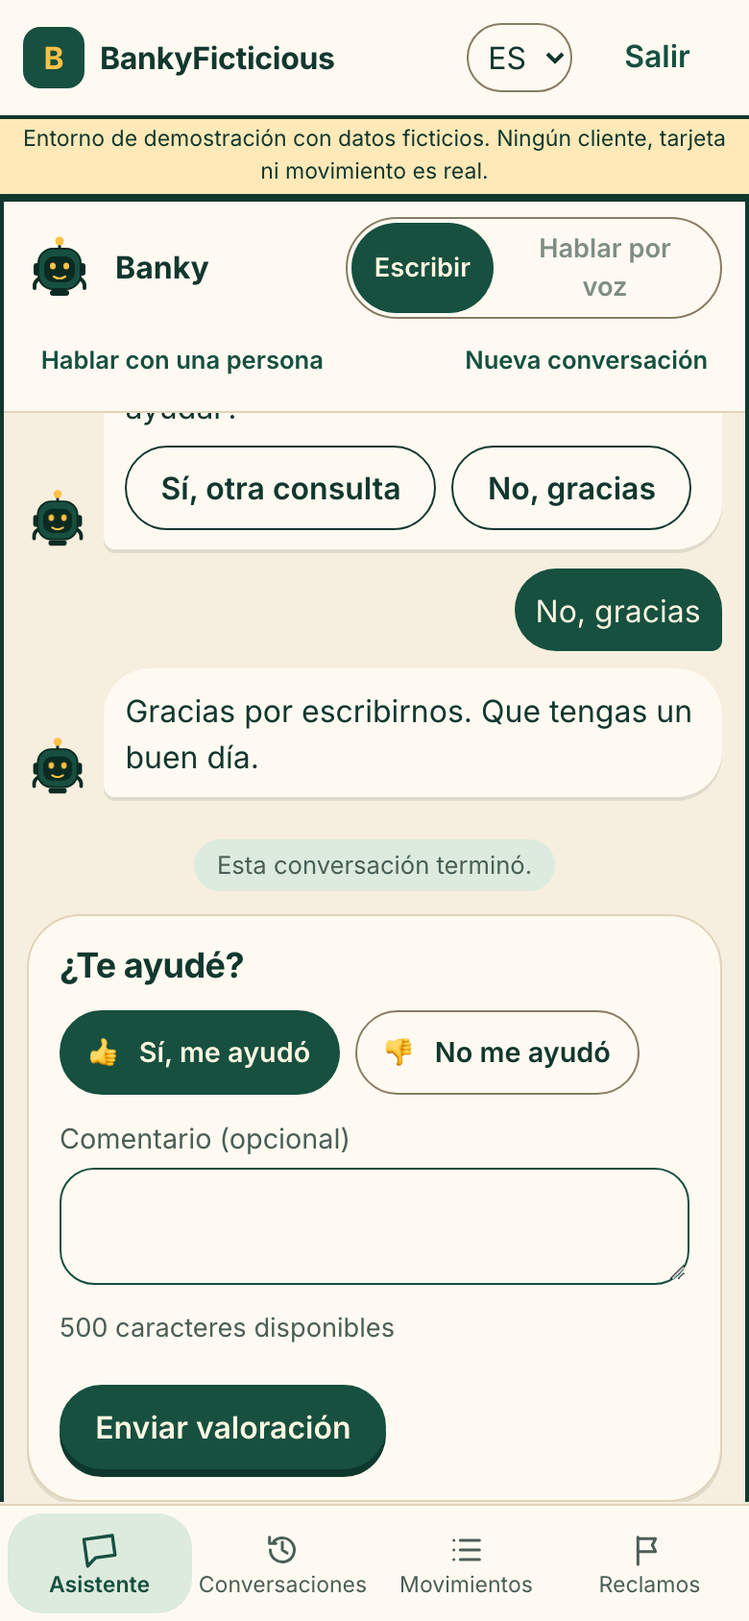
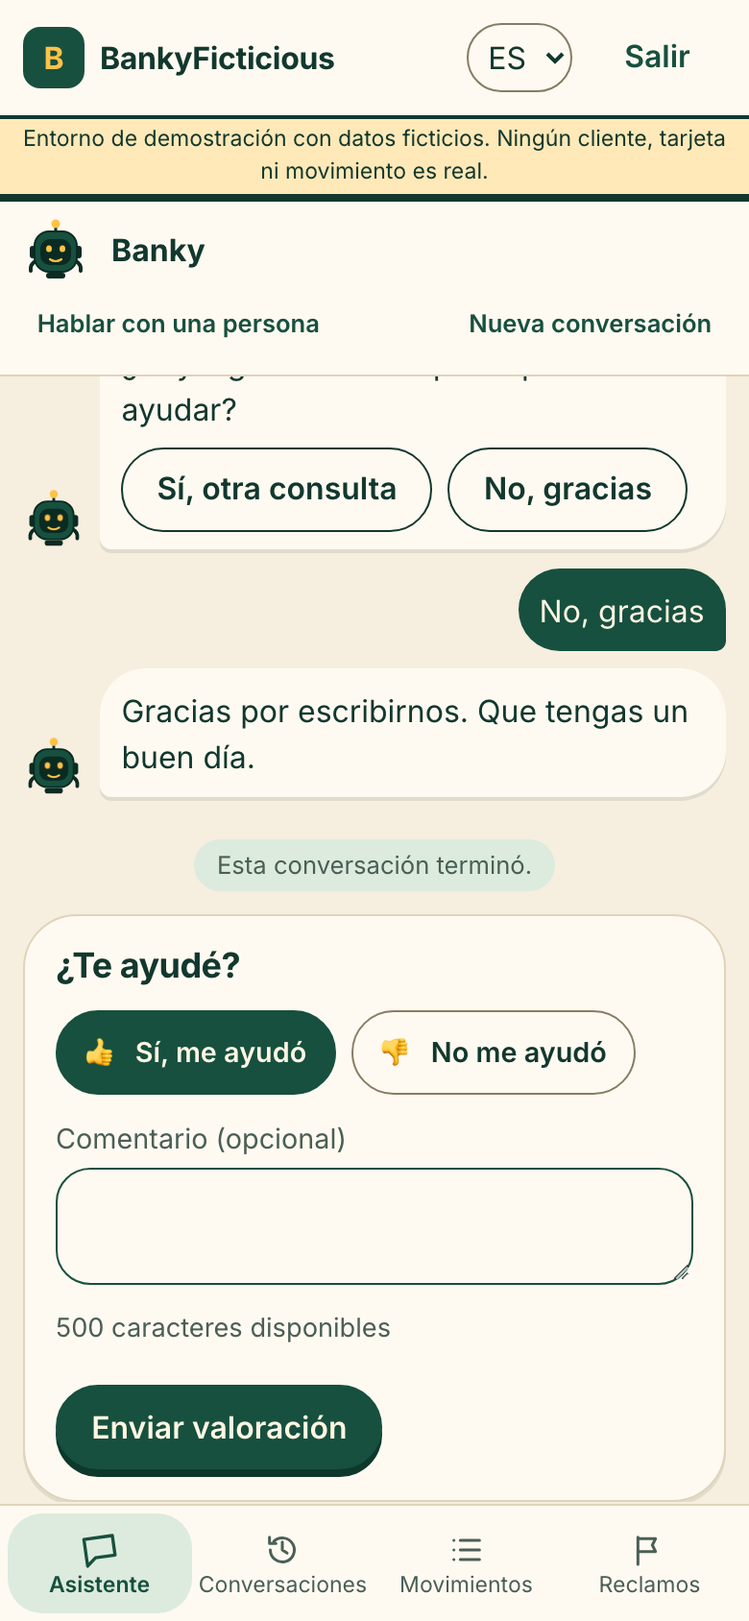
fix(frontend): single welcome, no voice option when disabled, clear option lists and no attempt counters
Review of the chat on prodlike (prompt 11), frontend session. Top priority.

- **B5:** with `VOICE_ENABLED=false` there is no voice button and no notice: neither in the welcome nor in the chat header. The text/voice question appears only when `GET /api/voice/config` says `enabled`.
- **B6:** one welcome message instead of two: Banky introduces itself and, in the same bubble, says what it can do (the backend greeting, without repeating "Hola").
- **B4 (frontend side):** the clarification no longer shows any attempt counter.
- **"Asks for a detail" and "no matches":** quick replies are now a clear list of options, one per row with an icon per action (search, movements, claim status, card, person), pressed once. A plain yes/no pair stays inline. Notices get an icon and a clearer card.
- `start_topic` was already added in #98.
- The contract does not yet distinguish those two states from any other text + options reply; proposed codes in https://github.com/HenryGlo/factored-hackathon-2026-gomez-team/issues/102 (not blocking).
- The three visual directions were delivered in #94 and direction C was applied to every screen in #100.
- Tests: 75 component tests (4 new); e2e 10 passed (the customer journey now asserts a single welcome and no voice button).

Closes #103

diff --git a/frontend/src/pages/ChatPage.tsx b/frontend/src/pages/ChatPage.tsx
@@ -32,6 +32,18 @@ function fromDetail(d: ConversationDetail): Message[] {
     : { id: t.turn_id, role: "assistant", blocks: t.blocks, state: d.state }));
 }
 
+/** El saludo del backend empieza con "Hola, …"; Banky ya saludó en la primera línea, así que esa palabra se quita (solo
+ *  presentación: el resto del texto queda igual). */
+function withoutGreetingWord(blocks: Block[]): Block[] {
+  let done = false;
+  return blocks.map((b) => {
+    if (done || b.type !== "text") return b;
+    done = true;
+    const rest = b.text.replace(/^\s*¡?(hola|olá|oi)\b[!,.\s]*/i, "");
+    return rest && rest !== b.text ? { ...b, text: rest.replace(/^([¿¡"«\s]*)(\p{L})/u, (_, pre: string, ch: string) => pre + ch.toUpperCase()) } : b;
+  });
+}
+
 /** Expresión de Banky según lo que trae el turno: feliz con un resultado verificado, empático ante un traspaso o un aviso. */
 function bankyFor(blocks: Block[] | undefined): BankyState {
   for (const b of blocks ?? []) {
@@ -255,31 +267,32 @@ export default function ChatPage() {
           </div>
         </div>
         <div className="chat-tools">
+          {voiceEnabled && (
           <div className="segmented" role="group" aria-label={t.chat.modeLabel}>
             <button type="button" aria-pressed={!voiceOn} onClick={() => { stopSpeech(); chooseMode("text"); }}>{t.chat.modeText}</button>
-            <button type="button" aria-pressed={voiceOn} disabled={!voiceEnabled}
-              title={voiceEnabled ? undefined : t.chat.voiceOff[voice.reason ?? "voice_disabled"]} onClick={() => { setVoiceNote(null); chooseMode("voice"); }}>{t.chat.modeVoice}</button>
+            <button type="button" aria-pressed={voiceOn} onClick={() => { setVoiceNote(null); chooseMode("voice"); }}>{t.chat.modeVoice}</button>
           </div>
+          )}
           <button className="btn ghost small" disabled={sending} onClick={() => void send({ action: { type: "request_human" } }, t.humanHelp)}>{t.humanHelp}</button>
           <button className="btn ghost small" disabled={sending} onClick={() => void startConversation({ previous: conversationId ?? undefined }).catch(handleError)}>{t.newConversation}</button>
         </div>
       </div>
 
       <div className="messages" role="log" aria-live="polite" aria-relevant="additions" aria-busy={sending}>
-        {messages.length > 0 && !voice.loading && (
-          <ModeChoice lang={lang} mode={mode} voiceEnabled={voiceEnabled} voiceReason={voice.reason} onChoose={chooseMode} />
-        )}
         {messages.map((m) => (
           <div key={m.id} className={`msg ${m.role}`}>
             {m.role === "assistant" && <Banky state={bankyFor(m.blocks)} size={44} />}
             {m.role === "assistant" ? (
-              <div className="bubble assistant">
+              <div className={m.id.startsWith("greet-") ? "bubble assistant welcome" : "bubble assistant"}>
                 <span className="sr-only">{t.assistant}:</span>
-                {(m.blocks ?? []).map((b, i) => (
+                {/* bienvenida en UN solo mensaje: la presentación de Banky y, debajo, lo que puede hacer (texto del backend) */}
+                {m.id.startsWith("greet-") && <p className="bubble-text welcome-hello"><strong>{t.chat.hello}</strong></p>}
+                {(m.id.startsWith("greet-") ? withoutGreetingWord(m.blocks ?? []) : m.blocks ?? []).map((b, i) => (
                   <BlockView key={i} block={b} lang={lang} state={m.id === lastAssistant ? state : (m.state ?? state)}
                     active={m.id === lastAssistant && !sending && !closed && cooldown === 0}
                     onAction={(action, label) => void send({ action }, label)} />
                 ))}
+                {m.id.startsWith("greet-") && !voice.loading && <ModeChoice lang={lang} mode={mode} voiceEnabled={voiceEnabled} onChoose={chooseMode} />}
               </div>
             ) : m.role === "system" ? (
               <p className="system-note">{m.text}</p>

diff --git a/frontend/src/components/blocks/BlockView.tsx b/frontend/src/components/blocks/BlockView.tsx
@@ -6,6 +6,7 @@ import type { Action, Block, CandidateListBlock, ConversationState, Lang, Result
 import { formatDate } from "../../lib/format";
 import { T } from "../../lib/i18n";
 import CopyRef from "../CopyRef";
+import Icon, { type IconName } from "../Icon";
 
 export interface BlockProps {
   block: Block;
@@ -59,7 +60,6 @@ function CandidateList({ block, active, onAction, lang }: { block: CandidateList
         {block.allow_none && (
           <div className="actions"><button className="btn ghost" disabled={!active || used} onClick={() => send({ type: "reject" }, t.none)}>{t.none}</button></div>
         )}
-        {block.round > 1 && <p className="muted small">{t.chat.attempt(block.round, block.max_rounds)}</p>}
       </div>
     );
   }
@@ -91,6 +91,29 @@ function CandidateList({ block, active, onAction, lang }: { block: CandidateList
         {block.allow_none && <button className="btn ghost" onClick={() => send({ type: "reject" }, t.none)}>{t.none}</button>}
       </div>
     </fieldset>
+  );
+}
+
+const TOPIC_ICON: Record<string, IconName> = { cargo_no_reconocido: "search", consulta_movimientos: "list", estado_reclamo: "flag", bloquear_tarjeta: "card" };
+
+function optionIcon(a: Action): IconName {
+  if (a.type === "start_topic") return TOPIC_ICON[a.topic ?? ""] ?? "chat";
+  return a.type === "request_human" ? "person" : a.type === "end_conversation" ? "check" : "chat";
+}
+
+/** Opciones que ofrece el asistente cuando pide un dato, no encuentra coincidencias o propone temas: una por fila. */
+function QuickOptions({ options, active, onAction }: { options: { label: string; action: Action }[]; active: boolean; onAction: BlockProps["onAction"] }) {
+  const [used, setUsed] = useState(false);
+  return (
+    <ul className="options" role="group">
+      {options.map((o) => (
+        <li key={o.label}>
+          <button type="button" className="option" disabled={!active || used} onClick={() => { setUsed(true); onAction(o.action, o.label); }}>
+            <Icon name={optionIcon(o.action)} /><span>{o.label}</span><span className="option-go" aria-hidden="true">›</span>
+          </button>
+        </li>
+      ))}
+    </ul>
   );
 }
 
@@ -128,7 +151,11 @@ export default function BlockView({ block, lang, state, active, onAction }: Bloc
         ? <p><a className="btn secondary" href={block.url} target="_blank" rel="noopener noreferrer">{block.label}</a></p>
         : null;
     case "notice":
-      return <p className={`notice ${block.level === "warning" ? "warning" : "info"}`}>{block.text}</p>;
+      return (
+        <p className={`notice ${block.level === "warning" ? "warning" : "info"}`} data-code={block.code}>
+          <span className="notice-icon" aria-hidden="true">{block.level === "warning" ? "!" : "i"}</span><span>{block.text}</span>
+        </p>
+      );
     case "error":
       return <p className="notice error" role="alert">{block.message}</p>;
     case "candidate_list":
@@ -217,11 +244,14 @@ export default function BlockView({ block, lang, state, active, onAction }: Bloc
         </div>
       );
     case "quick_replies":
-      return (
-        <div className="quick" role="group">
-          {block.options.map((o) => <OnceButton key={o.label} label={o.label} active={active} onAction={onAction} action={o.action} />)}
-        </div>
-      );
+      // dos opciones (sí / no) van en línea; con más, o con temas, una lista clara de opciones con su icono
+      return block.options.length <= 2 && block.options.every((o) => o.action.type !== "start_topic")
+        ? (
+          <div className="quick" role="group">
+            {block.options.map((o) => <OnceButton key={o.label} label={o.label} active={active} onAction={onAction} action={o.action} />)}
+          </div>
+        )
+        : <QuickOptions options={block.options} active={active} onAction={onAction} />;
     default:
       return null;
   }

diff --git a/frontend/src/components/__tests__/BlockView.test.tsx b/frontend/src/components/__tests__/BlockView.test.tsx
@@ -84,16 +84,44 @@ describe("BlockView", () => {
     const onAction = vi.fn();
     render(<BlockView block={block} lang="es" state="inicio" active onAction={onAction} />);
     expect(screen.getAllByRole("button")).toHaveLength(5);
-    fireEvent.click(screen.getByRole("button", { name: "Bloquear mi tarjeta" }));
+    fireEvent.click(screen.getByRole("button", { name: /Bloquear mi tarjeta/ }));
     expect(onAction).toHaveBeenCalledWith({ type: "start_topic", topic: "bloquear_tarjeta" }, "Bloquear mi tarjeta");
-    expect((screen.getByRole("button", { name: "Bloquear mi tarjeta" }) as HTMLButtonElement).disabled).toBe(true);   // un solo envío
+    expect((screen.getByRole("button", { name: /Bloquear mi tarjeta/ }) as HTMLButtonElement).disabled).toBe(true);   // un solo envío
   });
 
   it("quick_replies from an earlier turn cannot be used", () => {
     const block: QuickRepliesBlock = { type: "quick_replies", options: [{ label: "Ver mis movimientos", action: { type: "start_topic", topic: "consulta_movimientos" } }] };
     const onAction = vi.fn();
     render(<BlockView block={block} lang="es" state="inicio" active={false} onAction={onAction} />);
-    fireEvent.click(screen.getByRole("button", { name: "Ver mis movimientos" }));
+    fireEvent.click(screen.getByRole("button", { name: /Ver mis movimientos/ }));
     expect(onAction).not.toHaveBeenCalled();
+  });
+
+  it("never shows the internal attempt counter of a clarification", () => {
+    const block: CandidateListBlock = { type: "candidate_list", prompt: "Elige", allow_none: true, round: 3, max_rounds: 3, candidates: [tx("a", "Uno"), tx("b", "Dos")] };
+    const { container } = render(<BlockView block={block} lang="es" state="aclarando" active onAction={vi.fn()} />);
+    expect(container.textContent).not.toMatch(/3\s*(de|\/)\s*3|Intento/i);
+  });
+
+  it("asking for a detail or finding nothing: the options are one clear list and each sends its action once", () => {
+    const block: QuickRepliesBlock = { type: "quick_replies", options: [
+      { label: "Darte otro dato", action: { type: "new_request" } },
+      { label: "Ver mis últimos movimientos", action: { type: "start_topic", topic: "consulta_movimientos" } },
+      { label: "Hablar con una persona", action: { type: "request_human" } },
+    ] };
+    const onAction = vi.fn();
+    const { container } = render(<BlockView block={block} lang="es" state="inicio" active onAction={onAction} />);
+    expect(container.querySelectorAll(".options .option")).toHaveLength(3);
+    fireEvent.click(screen.getByRole("button", { name: /Ver mis últimos movimientos/ }));
+    fireEvent.click(screen.getByRole("button", { name: /Hablar con una persona/ }));
+    expect(onAction).toHaveBeenCalledTimes(1);
+    expect(onAction).toHaveBeenCalledWith({ type: "start_topic", topic: "consulta_movimientos" }, "Ver mis últimos movimientos");
+  });
+
+  it("keeps a plain yes/no pair inline", () => {
+    const block: QuickRepliesBlock = { type: "quick_replies", options: [{ label: "Sí, otra consulta", action: { type: "new_request" } }, { label: "No, gracias", action: { type: "end_conversation" } }] };
+    const { container } = render(<BlockView block={block} lang="es" state="inicio" active onAction={vi.fn()} />);
+    expect(container.querySelector(".options")).toBeNull();
+    expect(container.querySelectorAll(".quick .btn")).toHaveLength(2);
   });
 });

diff --git a/frontend/src/components/ModeChoice.tsx b/frontend/src/components/ModeChoice.tsx
@@ -1,10 +1,9 @@
-// Presentación de Banky y elección del modo (texto o voz). La voz solo se ofrece si GET /api/voice/config dice enabled;
-// si no, el botón queda deshabilitado y se explica el motivo. La elección se guarda en la sesión del navegador.
+// Elección del modo (texto o voz). La voz solo se ofrece si GET /api/voice/config dice enabled; con la voz apagada
+// no aparece ningún botón ni aviso. La elección se guarda en la sesión del navegador.
 import { useEffect, useState } from "react";
 import { api } from "../api/client";
 import type { Lang, VoiceConfig } from "../api/types";
 import { T } from "../lib/i18n";
-import Banky from "./Banky";
 
 export type ChatMode = "text" | "voice";
 const MODE_KEY = "chat_mode";
@@ -39,24 +38,20 @@ export function useVoiceConfig(): { config: VoiceConfig | null; reason: string |
   return state;
 }
 
-export default function ModeChoice({ lang, mode, voiceEnabled, voiceReason, onChoose }: {
-  lang: Lang; mode: ChatMode | null; voiceEnabled: boolean; voiceReason: string | null; onChoose: (m: ChatMode) => void;
+/** Pregunta texto/voz dentro del mensaje de bienvenida. Con la voz apagada no se muestra nada: ni botón ni aviso. */
+export default function ModeChoice({ lang, mode, voiceEnabled, onChoose }: {
+  lang: Lang; mode: ChatMode | null; voiceEnabled: boolean; onChoose: (m: ChatMode) => void;
 }) {
   const c = T[lang].chat;
+  if (!voiceEnabled) return null;
   return (
-    <div className="msg assistant">
-      <Banky state="greeting" size={44} label={c.bankyLabel} />
-      <div className="bubble assistant intro">
-        <p className="bubble-text"><strong>{c.hello}</strong></p>
-        <p className="bubble-text" id="mode-question">{c.modeQuestion}</p>
-        <div className="quick" role="group" aria-labelledby="mode-question">
-          <button type="button" className="chip" aria-pressed={mode === "text"} onClick={() => onChoose("text")}><span aria-hidden="true">⌨</span> {c.modeText}</button>
-          <button type="button" className="chip" aria-pressed={mode === "voice"} disabled={!voiceEnabled} aria-describedby={voiceEnabled ? undefined : "voice-off"}
-            onClick={() => onChoose("voice")}><span aria-hidden="true">🎙</span> {c.modeVoice}</button>
-        </div>
-        {!voiceEnabled && voiceReason && <p id="voice-off" className="muted small">{c.voiceOff[voiceReason] ?? c.voiceOff.voice_disabled}</p>}
-        {mode && <p className="muted small" role="status">{mode === "voice" && voiceEnabled ? c.modeChosenVoice : c.modeChosenText}</p>}
+    <div className="mode-choice">
+      <p className="bubble-text" id="mode-question">{c.modeQuestion}</p>
+      <div className="quick" role="group" aria-labelledby="mode-question">
+        <button type="button" className="chip" aria-pressed={mode === "text"} onClick={() => onChoose("text")}><span aria-hidden="true">⌨</span> {c.modeText}</button>
+        <button type="button" className="chip" aria-pressed={mode === "voice"} onClick={() => onChoose("voice")}><span aria-hidden="true">🎙</span> {c.modeVoice}</button>
       </div>
+      {mode && <p className="muted small" role="status">{mode === "voice" ? c.modeChosenVoice : c.modeChosenText}</p>}
     </div>
   );
 }

diff --git a/frontend/src/styles.css b/frontend/src/styles.css
@@ -759,3 +759,25 @@ body { font-family: var(--font-body); }
 .ticket-row.pr-alta { border-left-color: var(--err-line); }
 .segmented button { white-space: nowrap; }
 @media (max-width: 720px) { .segmented button { padding-inline: 0.6rem; font-size: 0.8rem; } .chat { border-inline: 0; } }
+
+/* ---- revisión del chat (prompt 11): bienvenida única, opciones claras, avisos con icono */
+.welcome-hello { font-family: var(--font-display); font-size: var(--text-lg); }
+.mode-choice { display: grid; gap: var(--s-2); margin-top: var(--s-1); padding-top: var(--s-3); border-top: 1.5px dashed var(--line); }
+.options { list-style: none; margin: var(--s-1) 0 0; padding: 0; display: grid; gap: var(--s-2); min-width: min(100%, 20rem); }
+.option { width: 100%; font: inherit; font-weight: 600; text-align: left; display: flex; align-items: center; gap: var(--s-3); min-height: 48px; padding: 0.55rem 0.9rem;
+  color: var(--text); background: var(--surface); border: 1.5px solid var(--text); border-radius: var(--r-md); box-shadow: 0 3px 0 var(--text); cursor: pointer;
+  transition: transform var(--dur-base) var(--ease-spring), box-shadow var(--dur-base) var(--ease-out), background-color var(--dur-fast) var(--ease-out); }
+.option .icon { color: var(--accent); }
+.option > span:nth-child(2) { flex: 1; }
+.option-go { font-size: 1.3rem; line-height: 1; color: var(--muted); transition: transform var(--dur-base) var(--ease-spring); }
+.option:not(:disabled):hover { background: var(--accent-soft); transform: translateY(1px); box-shadow: 0 2px 0 var(--text); }
+.option:not(:disabled):hover .option-go { transform: translateX(4px); }
+.option:not(:disabled):active { transform: translateY(3px); box-shadow: 0 0 0 var(--text); }
+.option:disabled { cursor: not-allowed; color: var(--muted); border-color: var(--line); box-shadow: none; background: var(--surface-2); }
+.option:disabled .icon { color: var(--muted); }
+.transcript .options { display: none; }
+.notice { align-items: flex-start; flex-wrap: nowrap; border-radius: var(--r-md); padding: 0.65rem 0.85rem; }
+.notice.info { background: var(--info-bg); border: 1.5px solid #b9cfe2; }
+.notice-icon { flex: none; width: 1.4rem; height: 1.4rem; border-radius: 50%; display: grid; place-items: center; font-weight: 800; font-size: 0.8rem; font-family: var(--font-display); }
+.notice.info .notice-icon { background: var(--info); color: #fff; }
+.notice.warning .notice-icon { background: var(--warn); color: #fff; }

diff --git a/frontend/src/lib/i18n.ts b/frontend/src/lib/i18n.ts
@@ -117,9 +117,7 @@ const es = {
     modeLabel: "Modo de conversación",
     modeChosenText: "Seguimos por escrito. Puedes cambiar a voz cuando quieras.",
     modeChosenVoice: "Seguimos por voz. Las confirmaciones siempre se hacen con un botón en pantalla.",
-    voiceOff: { voice_disabled: "La voz no está disponible por ahora: está desactivada en este entorno. Seguimos por escrito.", voice_not_configured: "La voz no está disponible por ahora: falta configurarla. Seguimos por escrito.", error: "No pudimos comprobar si la voz está disponible. Seguimos por escrito." } as Record<string, string>,
     phases: { understanding: "Entendiendo tu mensaje…", searching_transactions: "Buscando en tus movimientos…", checking_policy: "Revisando la política…", writing: "Escribiendo…" } as Record<string, string>,
-    attempt: (n: number, max: number) => `Intento ${n} de ${max} para encontrar el movimiento`,
     copy: "Copiar",
     copied: "Copiado",
     copyRef: (ref: string) => `Copiar la referencia ${ref}`,
@@ -399,9 +397,7 @@ const pt: Dict = {
     modeLabel: "Modo de conversa",
     modeChosenText: "Seguimos por escrito. Você pode mudar para voz quando quiser.",
     modeChosenVoice: "Seguimos por voz. As confirmações são sempre feitas com um botão na tela.",
-    voiceOff: { voice_disabled: "A voz não está disponível por enquanto: está desativada neste ambiente. Seguimos por escrito.", voice_not_configured: "A voz não está disponível por enquanto: falta configurá-la. Seguimos por escrito.", error: "Não foi possível verificar se a voz está disponível. Seguimos por escrito." },
     phases: { understanding: "Entendendo a sua mensagem…", searching_transactions: "Procurando nos seus lançamentos…", checking_policy: "Verificando a política…", writing: "Digitando…" },
-    attempt: (n: number, max: number) => `Tentativa ${n} de ${max} para encontrar o lançamento`,
     copy: "Copiar",
     copied: "Copiado",
     copyRef: (ref: string) => `Copiar a referência ${ref}`,

diff --git a/frontend/src/components/__tests__/FeedbackCard.test.tsx b/frontend/src/components/__tests__/FeedbackCard.test.tsx
@@ -31,21 +31,18 @@ describe("FeedbackCard", () => {
 });
 
 describe("ModeChoice", () => {
-  it("introduces Banky and explains why voice is unavailable when the flag is off", () => {
-    const onChoose = vi.fn();
-    render(<ModeChoice lang="es" mode={null} voiceEnabled={false} voiceReason="voice_disabled" onChoose={onChoose} />);
-    expect(screen.getByText("¡Hola! Soy Banky, tu asistente.")).toBeTruthy();
-    const voice = screen.getByRole("button", { name: /Hablar por voz/ }) as HTMLButtonElement;
-    expect(voice.disabled).toBe(true);
-    expect(screen.getByText(/La voz no está disponible por ahora/)).toBeTruthy();
-    fireEvent.click(screen.getByRole("button", { name: /Escribir/ }));
-    expect(onChoose).toHaveBeenCalledWith("text");
+  it("shows nothing when voice is off: no voice button and no notice", () => {
+    const { container } = render(<ModeChoice lang="es" mode={null} voiceEnabled={false} onChoose={vi.fn()} />);
+    expect(container.textContent).toBe("");
+    expect(screen.queryByRole("button")).toBeNull();
   });
 
-  it("offers voice when it is enabled", () => {
+  it("asks text or voice when voice is enabled", () => {
     const onChoose = vi.fn();
-    render(<ModeChoice lang="pt" mode={null} voiceEnabled voiceReason={null} onChoose={onChoose} />);
+    render(<ModeChoice lang="pt" mode={null} voiceEnabled onChoose={onChoose} />);
     fireEvent.click(screen.getByRole("button", { name: /Falar por voz/ }));
     expect(onChoose).toHaveBeenCalledWith("voice");
+    fireEvent.click(screen.getByRole("button", { name: /Escrever/ }));
+    expect(onChoose).toHaveBeenCalledWith("text");
   });
 });

diff --git a/frontend/e2e/journeys.e2e.ts b/frontend/e2e/journeys.e2e.ts
@@ -17,11 +17,10 @@ test("cliente con un cargo claro: de la landing al reclamo verificado, con histo
   await page.getByRole("button", { name: "Entrar" }).click();
   await expect(page).toHaveURL(/\/chat/);
 
-  // Banky se presenta y ofrece texto o voz; con la voz apagada explica por qué
-  await expect(page.getByText("¡Hola! Soy Banky, tu asistente.")).toBeVisible();
-  await expect(page.locator(".chip", { hasText: "Hablar por voz" })).toBeDisabled();
-  await expect(page.getByText(/La voz no está disponible por ahora/)).toBeVisible();
-  await page.locator(".chip", { hasText: "Escribir" }).click();
+  // una sola bienvenida (Banky se presenta y dice qué puede hacer); con la voz apagada no hay botón de voz ni aviso
+  await expect(page.locator(".messages > .msg.assistant")).toHaveCount(1);
+  await expect(page.locator(".bubble.welcome")).toContainText("¡Hola! Soy Banky, tu asistente.");
+  await expect(page.getByText(/Hablar por voz/)).toHaveCount(0);
 
   await say(page, "No reconozco un cobro");
   const first = page.locator(".choice").first();

diff --git a/frontend/src/components/Icon.tsx b/frontend/src/components/Icon.tsx
@@ -5,6 +5,10 @@ const PATHS: Record<string, string> = {
   list: "M8 6h12M8 12h12M8 18h12M4 6h.01M4 12h.01M4 18h.01",
   flag: "M5 21V4m0 1h11l-2 4 2 4H5",
   ticket: "M4 8a2 2 0 0 1 2-2h12a2 2 0 0 1 2 2v2a2 2 0 0 0 0 4v2a2 2 0 0 1-2 2H6a2 2 0 0 1-2-2v-2a2 2 0 0 0 0-4zM14 6v12",
+  search: "M11 18a7 7 0 1 0 0-14 7 7 0 0 0 0 14zM20 20l-4-4",
+  person: "M12 12a4 4 0 1 0 0-8 4 4 0 0 0 0 8zM4.5 20a7.5 7.5 0 0 1 15 0",
+  card: "M3 7a2 2 0 0 1 2-2h14a2 2 0 0 1 2 2v10a2 2 0 0 1-2 2H5a2 2 0 0 1-2-2zM3 10h18M7 15h4",
+  check: "M5 12.5l4.5 4.5L19 7.5",
   gauge: "M4 18a8 8 0 1 1 16 0M12 18l4-6",
 };
 

diff --git a/frontend/e2e/a11y.e2e.ts b/frontend/e2e/a11y.e2e.ts
@@ -19,7 +19,7 @@ test("pantallas públicas sin violaciones serias", async ({ page }) => {
 
 test("pantallas del cliente sin violaciones serias", async ({ page }) => {
   await login(page, "demo_cargos_parecidos_2");
-  await expect(page.locator(".messages > .msg.assistant").nth(1)).toBeVisible();
+  await expect(page.locator(".messages > .msg.assistant").first()).toBeVisible();
   await audit(page, "chat");
   for (const path of ["/conversaciones", "/movimientos", "/reclamos"]) {
     await page.goto(path);

diff --git a/frontend/README.md b/frontend/README.md
@@ -58,7 +58,7 @@ DEMO_PASSWORD=… BASE_URL=http://127.0.0.1:5173 npm run e2e
 |---|---|---|
 | `/` | — | Landing de BankyFicticious: "Tengo un reclamo" (abre el chat; sin sesión pasa por el login), acceso de agentes (`/login?perfil=agente`), cómo funciona, qué puede y qué no puede hacer Banky, aviso de datos ficticios. Lighthouse (build de producción, 2026-10-02): landing y chat con rendimiento 98–100 y accesibilidad 100 en celular y escritorio. |
 | `/login` | — | Login en dos paneles. Con `DEMO_MODE` (`GET /api/demo/info`): aviso de entorno de demostración y tarjetas de usuarios demo con su escenario (clientes en `/login`, agentes y admin en `/login?perfil=agente`). La contraseña nunca está en el frontend: el aviso dice dónde está documentada. Con el modo apagado no hay aviso ni tarjetas. |
-| `/chat` | customer | Chat con todos los bloques del contrato. Banky se presenta y pregunta texto o voz (la voz solo si `GET /api/voice/config` la habilita); fase real del turno; RCL copiable; "¿Te ayudé?" al cerrar. |
+| `/chat` | customer | Chat con todos los bloques del contrato. Una sola bienvenida (Banky se presenta y dice qué puede hacer); la opción de voz solo aparece si `GET /api/voice/config` la habilita (apagada: ni botón ni aviso); fase real del turno; respuestas rápidas como lista de opciones cuando el asistente pide un dato, no encuentra coincidencias o propone temas (`start_topic`); sin contadores de intentos; RCL copiable; "¿Te ayudé?" al cerrar. |
 | `/conversaciones` | customer | "Mis conversaciones": `GET /api/me/conversations` (paginado) con fecha, resumen, estado y referencias. El detalle (`/conversaciones/:id`) es de solo lectura y "Continuar sobre este tema" abre una conversación enlazada. |
 | `/movimientos` | customer | `GET /api/me/transactions` con filtros. "No reconozco este cargo" abre el chat con esa disputa (`dispute_transaction_id`). |
 | `/reclamos` | customer | `GET /api/me/cases`. |
